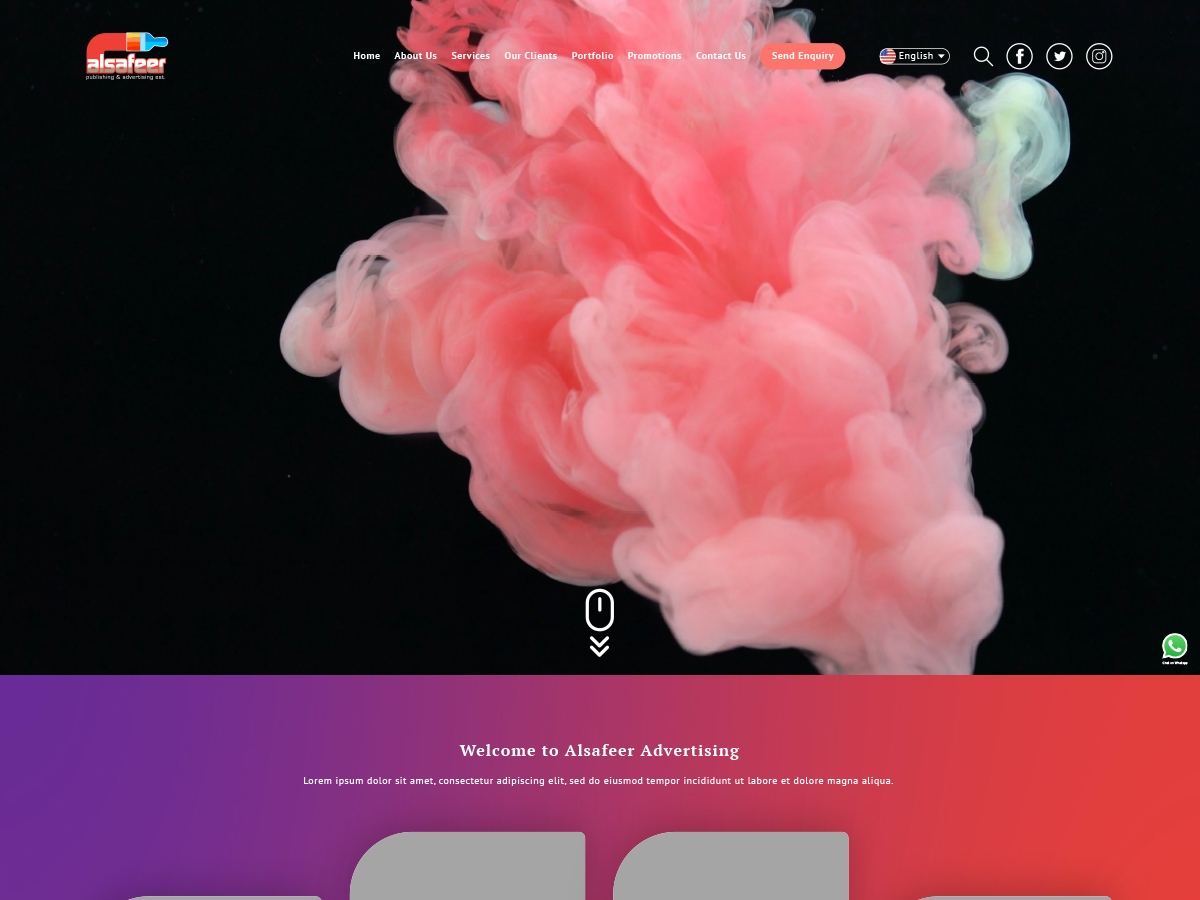
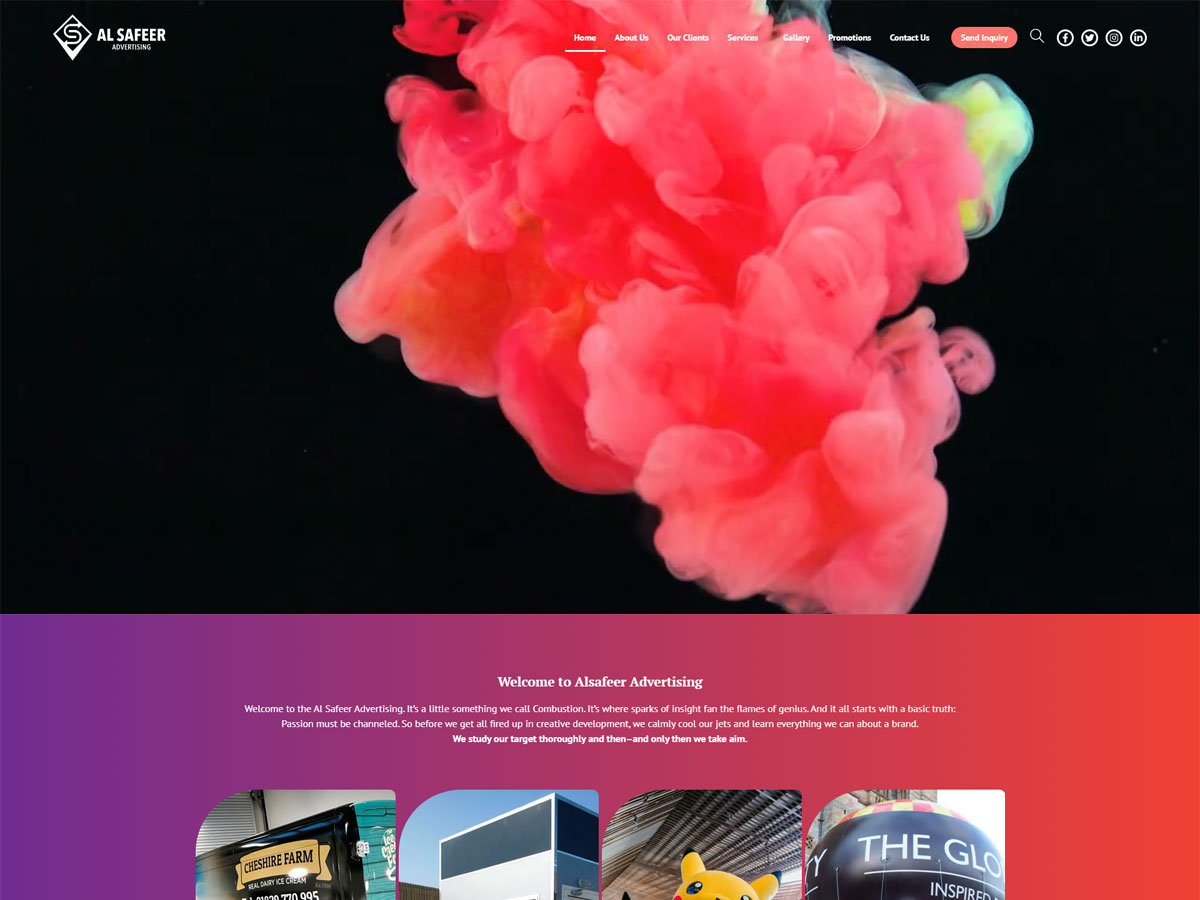
Moved from production brand

diff --git a/includes/css/min/combine.min.css b/includes/css/min/combine.min.css
@@ -1,2 +1,2 @@
-.owl-theme .owl-nav{margin-top:10px;text-align:center;-webkit-tap-highlight-color:transparent}.owl-theme .owl-nav [class*=owl-]{color:#fff;font-size:14px;margin:5px;padding:4px 7px;background:#c2c2c2;display:inline-block;cursor:pointer;border-radius:3px}.owl-theme .owl-nav [class*=owl-]:hover{background:#676767;color:#fff;text-decoration:none}.owl-theme .owl-nav .disabled{opacity:.5;cursor:default}.owl-theme .owl-nav.disabled+.owl-dots{margin-top:10px}.owl-theme .owl-dots .owl-dot{display:inline-block;zoom:1}.owl-theme .owl-dots .owl-dot span{width:10px;height:10px;margin:5px 7px;background:#c2c2c2;display:block;-webkit-backface-visibility:visible;backface-visibility:visible;transition:opacity .2s ease;border-radius:30px}.owl-theme .owl-dots .owl-dot.active span,.owl-theme .owl-dots .owl-dot:hover span{background:#676767}article.elementor-post.elementor-grid-item.status-publish.has-post-thumbnail.hentry.ast-grid-common-col.ast-full-width{border-radius:10px;box-shadow:0 0 30px rgb(0 0 0 / 16%)}.elementor-post__text{padding:10px 25px;text-align:center}a.elementor-post__read-more{background:#fd746c;font-family:"PT Sans";font-weight:700;font-size:16px;letter-spacing:.05em;text-align:center;color:#fff;padding:12px 26px;border-radius:30px}.elementor-post__read-more-wrapper{margin:20px 0}a.elementor-post__read-more:hover{background:#f24032;box-shadow:0 0 16px -6px #000}div.feat-prods-carousel .owl-stage-outer{padding-bottom:0}span.elementor-counter-number-suffix{font-size:50px;align-self:end}ul.sub-menu .elementor-nav-menu--dropdown .sm-nowrap{border-radius:10px}.lang-item,a.elementor-sub-item.menu-link{border-radius:10px}nav.elementor-pagination{display:flex;margin-top:45px;flex-wrap:wrap;flex-direction:row;justify-content:flex-start;align-items:center}a.page-numbers{margin-top:10px;padding:3px 10px}span.page-numbers.current{padding:3px 10px}a.page-numbers.next{padding:4px 15px}span.page-numbers{margin-top:10px}ul.cat-list{margin-left:0}.elementor-slideshow__title{display:none}i.eicon-share-arrow{display:none}img.feat-prods-mb-feat-image{max-width:350px}.vid-container{width:fit-content}
+.owl-theme .owl-nav{margin-top:10px;text-align:center;-webkit-tap-highlight-color:transparent}.owl-theme .owl-nav [class*=owl-]{color:#fff;font-size:14px;margin:5px;padding:4px 7px;background:#c2c2c2;display:inline-block;cursor:pointer;border-radius:3px}.owl-theme .owl-nav [class*=owl-]:hover{background:#676767;color:#fff;text-decoration:none}.owl-theme .owl-nav .disabled{opacity:.5;cursor:default}.owl-theme .owl-nav.disabled+.owl-dots{margin-top:10px}.owl-theme .owl-dots .owl-dot{display:inline-block;zoom:1}.owl-theme .owl-dots .owl-dot span{width:10px;height:10px;margin:5px 7px;background:#c2c2c2;display:block;-webkit-backface-visibility:visible;backface-visibility:visible;transition:opacity .2s ease;border-radius:30px}.owl-theme .owl-dots .owl-dot.active span,.owl-theme .owl-dots .owl-dot:hover span{background:#676767}article.elementor-post.elementor-grid-item.status-publish.has-post-thumbnail.hentry.ast-grid-common-col.ast-full-width{border-radius:10px;box-shadow:0 0 30px rgb(0 0 0 / 16%)}.elementor-post__text{padding:10px 25px;text-align:center}a.elementor-post__read-more{background:#fd746c;font-family:"PT Sans";font-weight:700;font-size:16px;letter-spacing:.05em;text-align:center;color:#fff;padding:12px 26px;border-radius:30px}.elementor-post__read-more-wrapper{margin:20px 0}a.elementor-post__read-more:hover{background:#f24032;box-shadow:0 0 16px -6px #000}div.feat-prods-carousel .owl-stage-outer{padding-bottom:0}span.elementor-counter-number-suffix{font-size:50px;align-self:end}ul.sub-menu .elementor-nav-menu--dropdown .sm-nowrap{border-radius:10px}.lang-item,a.elementor-sub-item.menu-link{border-radius:10px}nav.elementor-pagination{display:flex;margin-top:45px;flex-wrap:wrap;flex-direction:row;justify-content:flex-start;align-items:center}a.page-numbers{margin-top:10px;padding:3px 10px}span.page-numbers.current{padding:3px 10px}a.page-numbers.next{padding:4px 15px}span.page-numbers{margin-top:10px}ul.cat-list{margin-left:0}.elementor-slideshow__title{display:none}i.eicon-share-arrow{display:none}img.feat-prods-mb-feat-image{max-width:350px}
 /*# sourceMappingURL=combine.min.css.map */

diff --git a/includes/css/combine.css b/includes/css/combine.css
@@ -155,10 +155,7 @@ i.eicon-share-arrow {
     height: 540px;
 } */
 
+
 img.feat-prods-mb-feat-image {
     max-width: 350px;
-}
-
-.vid-container {
-    width: fit-content;
 }

diff --git a/functions.php b/functions.php
@@ -30,8 +30,8 @@ add_action('wp_enqueue_scripts', 'child_enqueue_styles', 15);
 
 function add_carousel_js()
 {
-    wp_enqueue_script('owl-default', get_stylesheet_directory_uri() . '/includes/js/min/owl.carousel.min.js', array('jquery'), true, true);
-    wp_enqueue_script('owl-call', get_stylesheet_directory_uri() . '/includes/js/min/owl-call.min.js', array('owl-default'), true, true);
+    wp_enqueue_script('owl-default', 'https://cdn.jsdelivr.net/npm/owl.carousel@2.3.4/dist/owl.carousel.min.js', array('jquery'), null, true);
+    wp_enqueue_script('owl-call', 'https://cdn.jsdelivr.net/gh/alsafeerdev/main_web@main/includes/js/min/owl-call.min.js', array('owl-default'), null, true);
 }
 
 add_action('wp_enqueue_scripts', 'add_carousel_js');
@@ -41,47 +41,20 @@ add_action('wp_enqueue_scripts', 'add_carousel_js');
 
 function add_custom_css()
 {
-    wp_enqueue_style('bootstrap-css', 'https://cdn.jsdelivr.net/npm/bootstrap@5.1.3/dist/css/bootstrap.min.css', true, true);
-    wp_enqueue_style('product-grid-css', get_stylesheet_directory_uri() . '/includes/css/min/product-grid-styles.min.css', true, true);
-    wp_enqueue_style('featured-prod-slider', get_stylesheet_directory_uri() . '/includes/css/min/feature-prod-slider.min.css', true, 1.1,);
-    wp_enqueue_style('combines-styles', get_stylesheet_directory_uri() .  '/includes/css/min/combine.min.css', true, true,);
+    wp_enqueue_style('bootstrap-css', 'https://cdn.jsdelivr.net/npm/bootstrap@5.1.3/dist/css/bootstrap.min.css', array(), null, 'all');
+    wp_enqueue_style('product-grid-css', 'https://cdn.jsdelivr.net/gh/alsafeerdev/main_web@main/includes/css/min/product-grid-styles.min.css', array(), null, 'all');
+    wp_enqueue_style('featured-prod-slider', 'https://cdn.jsdelivr.net/gh/alsafeerdev/main_web@main/includes/css/min/feature-prod-slider.min.css', array(), null, 'all');
+    wp_enqueue_style('combines-styles', 'https://cdn.jsdelivr.net/gh/alsafeerdev/main_web@main/includes/css/min/combine.min.css', array(), null, 'all');
+    wp_enqueue_style('owl-default-css', 'https://cdn.jsdelivr.net/npm/owl.carousel@2.3.4/dist/assets/owl.carousel.min.css', array(), null, 'all');
+    wp_enqueue_style('splide-theme-css', 'https://cdn.jsdelivr.net/gh/alsafeerdev/main_web@main/includes/css/min/splide-theme.min.css', array(), null, 'all');
+    wp_enqueue_style('promotions-slider-css', 'https://cdn.jsdelivr.net/gh/alsafeerdev/main_web@main/includes/css/min/promotion-slider.min.css', array(), null, 'all');
+    wp_enqueue_style('services-slider-css', 'https://cdn.jsdelivr.net/gh/alsafeerdev/main_web@main/includes/css/min/services-slider.min.css', array(), null, 'all');
+    wp_enqueue_style('portfolio-grid-css', 'https://cdn.jsdelivr.net/gh/alsafeerdev/main_web@main/includes/css/min/ajax-portfolio-grid.min.css', array(), null, 'all');
+    wp_enqueue_style('clients-carousel', 'https://cdn.jsdelivr.net/gh/alsafeerdev/main_web@main/includes/css/min/clients-carousel.min.css', array(), null, 'all');
+    wp_enqueue_style('synced-slider-styles', 'https://cdn.jsdelivr.net/gh/alsafeerdev/main_web@main/includes/css/min/synced-slider.min.css', array(), null, 'all');
+    wp_enqueue_style('media-queries', 'https://cdn.jsdelivr.net/gh/alsafeerdev/main_web@main/includes/css/min/media.min.css', array(), null, 'all');
 }
 add_action('wp_enqueue_scripts', 'add_custom_css');
-
-
-function product_grid()
-{
-    wp_enqueue_script('bootstrap-JS', 'https://cdn.jsdelivr.net/npm/bootstrap@5.1.3/dist/js/bootstrap.bundle.min.js', array(), true, true);
-    wp_enqueue_script('cat-filter-js', get_stylesheet_directory_uri() . '/includes/js/min/cat-filter-scripts.min.js', array(), true, true);
-    ob_start();
-    get_template_part('includes/product', 'grid');
-    return ob_get_clean();
-}
-
-add_shortcode('custom-product-grid', 'product_grid');
-
-// Dashboard Edit
-add_action('admin_head', 'my_custom_fonts');
-
-function my_custom_fonts()
-{
-    echo '<style>
-  .categorydiv div.tabs-panel, .customlinkdiv div.tabs-panel, .posttypediv div.tabs-panel, .taxonomydiv div.tabs-panel, .wp-tab-panel {
-    
-    max-height: 1246px !important;
-    
-}
-  </style>';
-}
-
-// Custom Slider for Portfolio 
-
-function add_custom_css_splide()
-{
-    wp_enqueue_style('owl-default-css', get_stylesheet_directory_uri() . '/includes/css/min/owl.carousel.min.css', true, true);
-    wp_enqueue_style('splide-theme-css', get_stylesheet_directory_uri() . '/includes/css/min/splide-theme.min.css', true, true);
-}
-add_action('wp_enqueue_scripts', 'add_custom_css_splide');
 
 // Excerpt More
 
@@ -104,12 +77,6 @@ add_shortcode('portfolio-slider', 'portfolio_slider');
 // Custom Slider for Portfolio END 
 
 // Custom Slider for Promotions
-
-function add_custom_css_promotions_slider()
-{
-    wp_enqueue_style('promotions-slider-css', get_stylesheet_directory_uri() . '/includes/css/min/promotion-slider.min.css', true, true);
-}
-add_action('wp_enqueue_scripts', 'add_custom_css_promotions_slider');
 
 
 function promotions_slider()
@@ -138,13 +105,6 @@ add_shortcode('promotions-sliderLightBG', 'promotions_slider_light_bg');
 
 // Custom Slider for Services
 
-function add_custom_css_services_slider()
-{
-    wp_enqueue_style('services-slider-css', get_stylesheet_directory_uri() . '/includes/css/min/services-slider.min.css', true, true);
-}
-add_action('wp_enqueue_scripts', 'add_custom_css_services_slider');
-
-
 function services_slider()
 {
     ob_start();
@@ -171,14 +131,6 @@ add_shortcode('services-sliderDarkBG', 'services_slider_dark_bg');
 
 
 // Ajax Portfolio Grid
-
-// CSS
-function add_custom_css_ajax_portfolio_grid()
-{
-    wp_enqueue_style('portfolio-grid-css', get_stylesheet_directory_uri() . '/includes/css/min/ajax-portfolio-grid.min.css', true, true);
-}
-add_action('wp_enqueue_scripts', 'add_custom_css_ajax_portfolio_grid');
-
 // JS
 
 
@@ -217,15 +169,6 @@ add_shortcode('products-slider', 'products_slider');
 
 // Clients Carousel
 
-// Add Styles
-
-function clients_carousel_css()
-{
-    wp_enqueue_style('clients-carousel', get_stylesheet_directory_uri() . '/includes/css/min/clients-carousel.min.css', true, true);
-}
-
-add_action('wp_enqueue_scripts', 'clients_carousel_css');
-
 // Register Short code
 
 function clients_carousel()
@@ -239,17 +182,11 @@ add_shortcode('clients-carousel', 'clients_carousel');
 
 // Synced Slider Gallery 
 
-function synced_slider_css()
-{
-    wp_enqueue_style('synced-slider-styles', get_stylesheet_directory_uri() . '/includes/css/min/synced-slider.min.css', true, true);
-}
-add_action('wp_enqueue_scripts', 'synced_slider_css');
-
 // Register Shortcode and JS
 
 function synced_slider_gallery()
 {
-    wp_enqueue_script('synced-slider-scripts', get_stylesheet_directory_uri() . '/includes/js/min/synced-slider.min.js', array('owl-default'), true, true);
+    wp_enqueue_script('synced-slider-scripts', 'https://cdn.jsdelivr.net/gh/alsafeerdev/main_web@main/includes/js/min/synced-slider.min.js', array('owl-default'), null, true);
     ob_start();
     get_template_part('includes/synced', 'slider');
     return ob_get_clean();
@@ -271,7 +208,7 @@ add_shortcode('cat-list', 'cat_list');
 
 function particles_js()
 {
-    wp_enqueue_script('particles-js', 'https://cdn.jsdelivr.net/particles.js/2.0.0/particles.min.js', true, true);
+    wp_enqueue_script('particles-js', 'https://cdn.jsdelivr.net/particles.js/2.0.0/particles.min.js',  array(), null, true);
 }
 add_action('wp_enqueue_scripts', 'particles_js');
 
@@ -279,19 +216,10 @@ add_action('wp_enqueue_scripts', 'particles_js');
 
 function image_optimize_js()
 {
-    wp_enqueue_script('image-optimize-js', get_stylesheet_directory_uri() . '/includes/js/min/image-optimize.min.js', false, false);
+    wp_enqueue_script('image-optimize-js', 'https://cdn.jsdelivr.net/gh/alsafeerdev/main_web@main/includes/js/min/image-optimize.min.js', null, false);
 }
 
 add_action('wp_enqueue_scripts', 'image_optimize_js');
-
-// add media queries
-
-function media_queries()
-{
-    wp_enqueue_style('media-queries', get_stylesheet_directory_uri() . '/includes/css/min/media.min.css', 'all', 1.8);
-}
-
-add_action('wp_enqueue_scripts', 'media_queries');
 
 // Disable font awesome 
 
@@ -313,6 +241,16 @@ function feat_products_mb()
 
 add_shortcode('feat-prod-mb', 'feat_products_mb');
 
+// Remove instant-page.JS
+
+function remove_instant_page_js()
+{
+    wp_dequeue_script('instant-page');
+    wp_deregister_script('instant-page');
+}
+
+add_action( 'wp_print_scripts', 'remove_instant_page_js' );
+
 // Dynamic Video Gallery
 
 function dynamic_video_gallery()
@@ -324,3 +262,53 @@ function dynamic_video_gallery()
 
 add_shortcode( 'dynamic-video-gallery', 'dynamic_video_gallery' );
 
+// Enable SPAM Filter for Contact forms
+
+function wpf_dev_profanity_filter_paragraph( $field_id, $field_submit, $form_data ) {
+ 
+    // Create your list of profanity words separated by commas
+$blocked_words = array( 
+    'jumboleadmagnet.com',
+    'click here',
+    'Click Now',
+    'FREE',
+    'CLICK HERE',
+    'http://talkwithwebtraffic.com',
+    'Cialis',
+    '.xyz',
+    '.com',
+    '.sale',
+    '.online',
+    '.biz',
+    'visit',
+    'url=',
+    '.ru',
+    'fuck',
+    'https://adultgames.life/',
+    '.life',
+    
+);
+
+foreach( $blocked_words as $word ) {
+    if(preg_match( '/\b' .$word. '\b/i', $field_submit )) {
+        wpforms()->process->errors[ $form_data[ 'id' ] ][ $field_id ] = esc_html__( 'NO SPAM MESSAGES ALLOWED./ اية رسائل مزعجة وغير حقيقية غير مسموح بها', 'plugin-domain' );
+        return;
+    }
+}
+
+}
+
+add_action( 'wpforms_process_validate_textarea', 'wpf_dev_profanity_filter_paragraph', 10, 3 );
+
+
+function wpf_dev_check_for_urls( $field_id, $field_submit, $form_data ) {
+
+if( strpos($field_submit, 'http') !== false || strpos($field_submit, 'www.') !== false || strpos($field_submit, 'https') !== false ) {
+    wpforms()->process->errors[ $form_data['id'] ][ $field_id ] = esc_html__( 'NO SPAM MESSAGES ALLOWED./ اية رسائل مزعجة وغير حقيقية غير مسموح بها', 'wpforms' );
+    return;
+} 
+ 
+}
+
+add_action( 'wpforms_process_validate_textarea', 'wpf_dev_check_for_urls', 10, 3 );
+add_action( 'wpforms_process_validate_text', 'wpf_dev_check_for_urls', 10, 3 ); 

diff --git a/includes/video-gallery.php b/includes/video-gallery.php
@@ -8,9 +8,9 @@
                 $vid_url = $image['url'];
                 $vid_type = $image['mime_type'];
                 ?>
-                <div class="col-md-6">
+                <div class="col-md-6 mb-3">
                     <div class="vid-container" style="width:fit-content">
-                        <video width="600" height="600" controls controlsList="nodownload">
+                        <video width="600" controls controlsList="nodownload">
                             <source src="<?php echo $vid_url ?>" type="<?php echo $vid_type ?>">
                             Your browser does not support the video tag.
                         </video>

diff --git a/includes/clients-carousel.php b/includes/clients-carousel.php
@@ -2,11 +2,12 @@
 $args = array(
     'post_type' => 'clients_logo',
     'order' => 'ASC',
-    'orderby' => 'ID'
+    'orderby' => 'rand',
+    'posts_per_page' => 75
 );
 $loop = new WP_Query($args); ?>
 
-<div id="clients-carousel" class="owl-carousel owl-theme clients-carousel dark-dots">
+<div id="clients-carousel" class="owl-carousel owl-theme clients-carousel dark-dots my-3">
 
     <?php if ($loop->have_posts()) : ?>
         <?php while ($loop->have_posts()) :

diff --git a/README.md b/README.md
@@ -1,1 +1,7 @@
-# staging
+# Al Safeer Child Theme
+
+This theme is linked with alsafeer live website.
+
+For Testing and new implementations, use https://github.com/alsafeerdev/staging
+
+Staging environment can be viewed on https://staging.alsafeeradvt.com/
